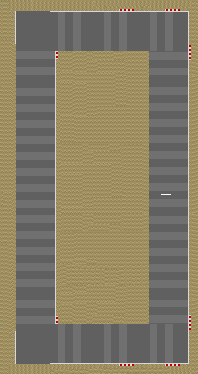
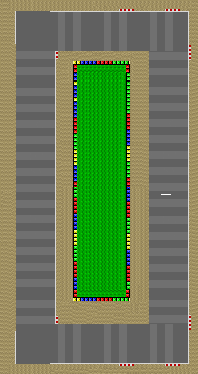
Add files via upload

Changed region(s): [[0.303, 0.1471, 0.6667, 0.8235], [0.697, 0.5588, 0.7273, 0.6176]]

diff --git a/mariokart-base/public_html/mariokart-0.2.js b/mariokart-base/public_html/mariokart-0.2.js
@@ -48,7 +48,9 @@ function MarioKart() {
             "texture": "media/map_2.png",
             "width": 198,
             "height": 374,
-            "collision": [],
+            "collision": [
+            	[72, 60, 59, 241]
+            ],
             "sand":[
             	[0, 0, 198, 10],
             	[0, 10, 14, 354],
@@ -572,7 +574,7 @@ function MarioKart() {
         }
         // decrease speed
         oKart.speed *= 0.9;
-    	if(areia( oKart.x, oKart.y)) oKart.speed *= 0.4 ;
+    	if(areia( oKart.x, oKart.y)) oKart.speed *= 0.5 ;
     }
 
     function ai(oKart) {
